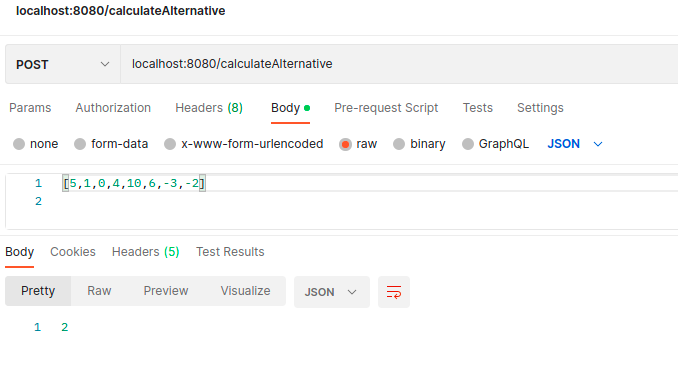
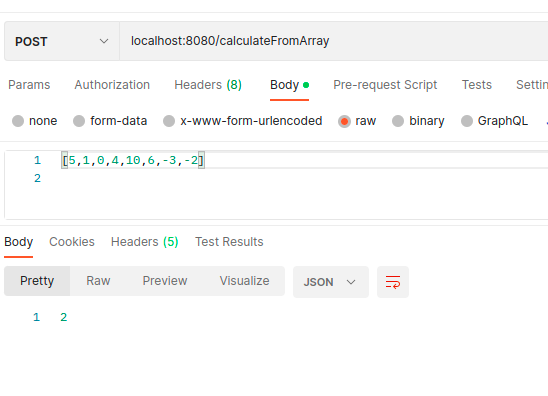
Refactored the name to a more meaningful one as per mentor suggestion. Made the endpoint URL more descriptive (/calculateFromArray/). Made both GET and POST methods use the same URL. Fixed the issue where if array contained an int higher than 999 the application would not work. Now application works

diff --git a/src/test/java/com/FindPositiveMissingNumber/controller/FindPositiveMissingNumberControllerTest.java b/src/test/java/com/FindPositiveMissingNumber/controller/FindPositiveMissingNumberControllerTest.java
@@ -1,4 +1,4 @@
-package com.arrCalculator.arrCalculator.controller;
+package com.FindPositiveMissingNumber.controller;
 
 import org.junit.jupiter.api.Test;
 import org.springframework.beans.factory.annotation.Autowired;
@@ -11,18 +11,18 @@ import org.springframework.test.web.servlet.result.MockMvcResultMatchers;
 
 
 @WebMvcTest
-    public class ArrCalculatorControllerTest {
+    public class FindPositiveMissingNumberControllerTest {
 
     @Autowired
     private MockMvc mockMvc;
 
-    public ArrCalculatorControllerTest() throws Exception {
+    public FindPositiveMissingNumberControllerTest() throws Exception {
     }
 
     @Test
     public void getShouldReturnMissingInt() throws Exception {
         MvcResult result = mockMvc.perform(MockMvcRequestBuilders.
-                        get("/calculate/5,1,0,4,10,6,-3,-2")).
+                        get("/calculateFromArray/5,1,0,4,10,6,-3,-2")).
                 andExpect(MockMvcResultMatchers.status().isOk()).
                 andExpect(MockMvcResultMatchers.content().string("2"))
                 .andReturn();
@@ -31,7 +31,7 @@ import org.springframework.test.web.servlet.result.MockMvcResultMatchers;
         System.out.println("Returned value: " + result.getResponse().getContentAsString());
 
         MvcResult result2 = mockMvc.perform(MockMvcRequestBuilders.
-                        get("/calculate/1,5,3,2,0,1,-3,-6,-4")).
+                        get("/calculateFromArray/1,5,3,2,0,1,-3,-6,-4")).
                 andExpect(MockMvcResultMatchers.status().isOk()).
                 andExpect(MockMvcResultMatchers.content().string("4")).andReturn();
 
@@ -43,7 +43,7 @@ import org.springframework.test.web.servlet.result.MockMvcResultMatchers;
 
     @Test
     public void postShouldReturnMissingInt() throws Exception {
-        MvcResult result = mockMvc.perform(MockMvcRequestBuilders.post("/calculateAlternative")
+        MvcResult result = mockMvc.perform(MockMvcRequestBuilders.post("/calculateFromArray")
                         .contentType(MediaType.APPLICATION_JSON)
                         .content("[5,1,0,4,10,6,-3,-2]")
                         .accept(MediaType.APPLICATION_JSON))
@@ -55,7 +55,7 @@ import org.springframework.test.web.servlet.result.MockMvcResultMatchers;
         System.out.println("Returned value: " + result.getResponse().getContentAsString());
 
 
-        MvcResult result2 = mockMvc.perform(MockMvcRequestBuilders.post("/calculateAlternative")
+        MvcResult result2 = mockMvc.perform(MockMvcRequestBuilders.post("/calculateFromArray")
                         .contentType(MediaType.APPLICATION_JSON)
                         .content("[1,5,3,2,0,1,-3,-6,-4]")
                         .accept(MediaType.APPLICATION_JSON))
@@ -65,6 +65,20 @@ import org.springframework.test.web.servlet.result.MockMvcResultMatchers;
 
         System.out.println("Expected value: 4");
         System.out.println("Returned value: " + result2.getResponse().getContentAsString());
+
+        //The application starts counting the positives from the lowest positive in the array.
+        //I.e. with an array [1001, 999], the missing positive will be 1000. It does not start counting from 0.
+
+        MvcResult result3 = mockMvc.perform(MockMvcRequestBuilders.post("/calculateFromArray")
+                        .contentType(MediaType.APPLICATION_JSON)
+                        .content("[1001, 999, -1000, -999]")
+                        .accept(MediaType.APPLICATION_JSON))
+                .andExpect(MockMvcResultMatchers.status().isOk())
+                .andExpect(MockMvcResultMatchers.content().string("1000"))
+                .andReturn();
+
+        System.out.println("Expected value: 1000");
+        System.out.println("Returned value: " + result3.getResponse().getContentAsString());
 
     }
 }

diff --git a/src/main/java/com/FindPositiveMissingNumber/controller/FindPositiveMissingNumberController.java b/src/main/java/com/FindPositiveMissingNumber/controller/FindPositiveMissingNumberController.java
@@ -1,4 +1,4 @@
-package com.arrCalculator.arrCalculator.controller;
+package com.FindPositiveMissingNumber.controller;
 
 
 import org.springframework.http.HttpStatus;
@@ -8,11 +8,11 @@ import org.springframework.web.bind.annotation.*;
 import java.util.Arrays;
 
 @RestController
-class ArrCalculatorController {
+class FindPositiveMissingNumberController {
 
-    @GetMapping("/calculate/{array}")
+    @GetMapping("/calculateFromArray/{array}")
     public ResponseEntity<Integer> calculate(@PathVariable("array") Integer[] array) {
-        int missingPositive = 999;
+        int missingPositive = Integer.MAX_VALUE;
 
         //Go through the array, find smallest positive number. Assume that's the missing positive
         for (int number : array) {
@@ -34,9 +34,9 @@ class ArrCalculatorController {
 
     }
 
-    @PostMapping("/calculateAlternative")
+    @PostMapping("/calculateFromArray")
     public ResponseEntity<Integer> calculateAlternative(@RequestBody Integer[] array) {
-        int missingPositive = 999;
+        int missingPositive = Integer.MAX_VALUE;
 
         //Go through the array, find smallest positive number. Assume that's the missing positive.
         for (int number : array) {
@@ -53,10 +53,15 @@ class ArrCalculatorController {
             }
         }
 
-
         return new ResponseEntity<>(missingPositive, HttpStatus.OK);
     }
 
+    //For AWS cloud
+
+    @GetMapping("/")
+    public String health() {
+        return "Application is working properly";
+    }
 
 }
 

diff --git a/src/main/java/com/FindPositiveMissingNumber/FindPositiveMissingNumberApplication.java b/src/main/java/com/FindPositiveMissingNumber/FindPositiveMissingNumberApplication.java
@@ -1,13 +1,13 @@
-package com.arrCalculator.arrCalculator;
+package com.FindPositiveMissingNumber;
 
 import org.springframework.boot.SpringApplication;
 import org.springframework.boot.autoconfigure.SpringBootApplication;
 
 @SpringBootApplication
-public class ArrCalculatorApplication {
+public class FindPositiveMissingNumberApplication {
 
 	public static void main(String[] args) {
-		SpringApplication.run(ArrCalculatorApplication.class, args);
+		SpringApplication.run(FindPositiveMissingNumberApplication.class, args);
 	}
 
 }

diff --git a/src/test/java/com/FindPositiveMissingNumber/FindPositiveMissingNumberApplicationTests.java b/src/test/java/com/FindPositiveMissingNumber/FindPositiveMissingNumberApplicationTests.java
@@ -1,10 +1,10 @@
-package com.arrCalculator.arrCalculator;
+package com.FindPositiveMissingNumber;
 
 import org.junit.jupiter.api.Test;
 import org.springframework.boot.test.context.SpringBootTest;
 
 @SpringBootTest
-class ArrCalculatorApplicationTests {
+class FindPositiveMissingNumberApplicationTests {
 
 	@Test
 	void contextLoads() {

diff --git a/README.md b/README.md
@@ -1,19 +1,19 @@
 # Endpoints
-* GET /calculate/{array} endpoint accepts an array of integers, then calculates the missing positive integer from the array and returns it.
+* GET **/calculateFromArray/{array}** endpoint accepts an array of integers, then calculates the missing positive integer from the array and returns it.
 
-Example 1: *http://localhost:8080/calculate/1,5,3,2,0,1,-3,-6,-4*
+Example 1: *http://localhost:8080/calculateFromArray/1,5,3,2,0,1,-3,-6,-4*
 
 Returns 4.
 
-Example 2: *http://localhost:8080/calculate/5,1,0,4,10,6,-3,-2* 
+Example 2: *http://localhost:8080/calculateFromArray/5,1,0,4,10,6,-3,-2* 
 
 Returns 2
 
-* POST /calculateAlternative/ accepts an array in [] format as the POST body. It returns the missing positive integer. 
+* POST **/calculateFromArray/** accepts an array of integers in [] format as the POST body. It returns the missing positive integer.
 
 Example 1:
 
-![](post_example.png)
+![](POST_example_1.png)
 
 Returns 4 just as the first GET request.
 
@@ -25,10 +25,4 @@ Returns 2 just as the second GET request.
 
 There are two tests with MockMVC to the GET endpoint in the test folder.
 
-There are two tests with MockMVC to the POST endpoint in the test folder.
-
-# ToDo
-
-- ~~Write two MockMVC tests for the POST endpoint~~ (done)
-- ~~Deploy to Heroku~~ (attempted with Java SDK 17, 11 and 8. Builds failed)
-- Deploy to AWS cloud
+There are three tests with MockMVC to the POST endpoint in the test folder.
